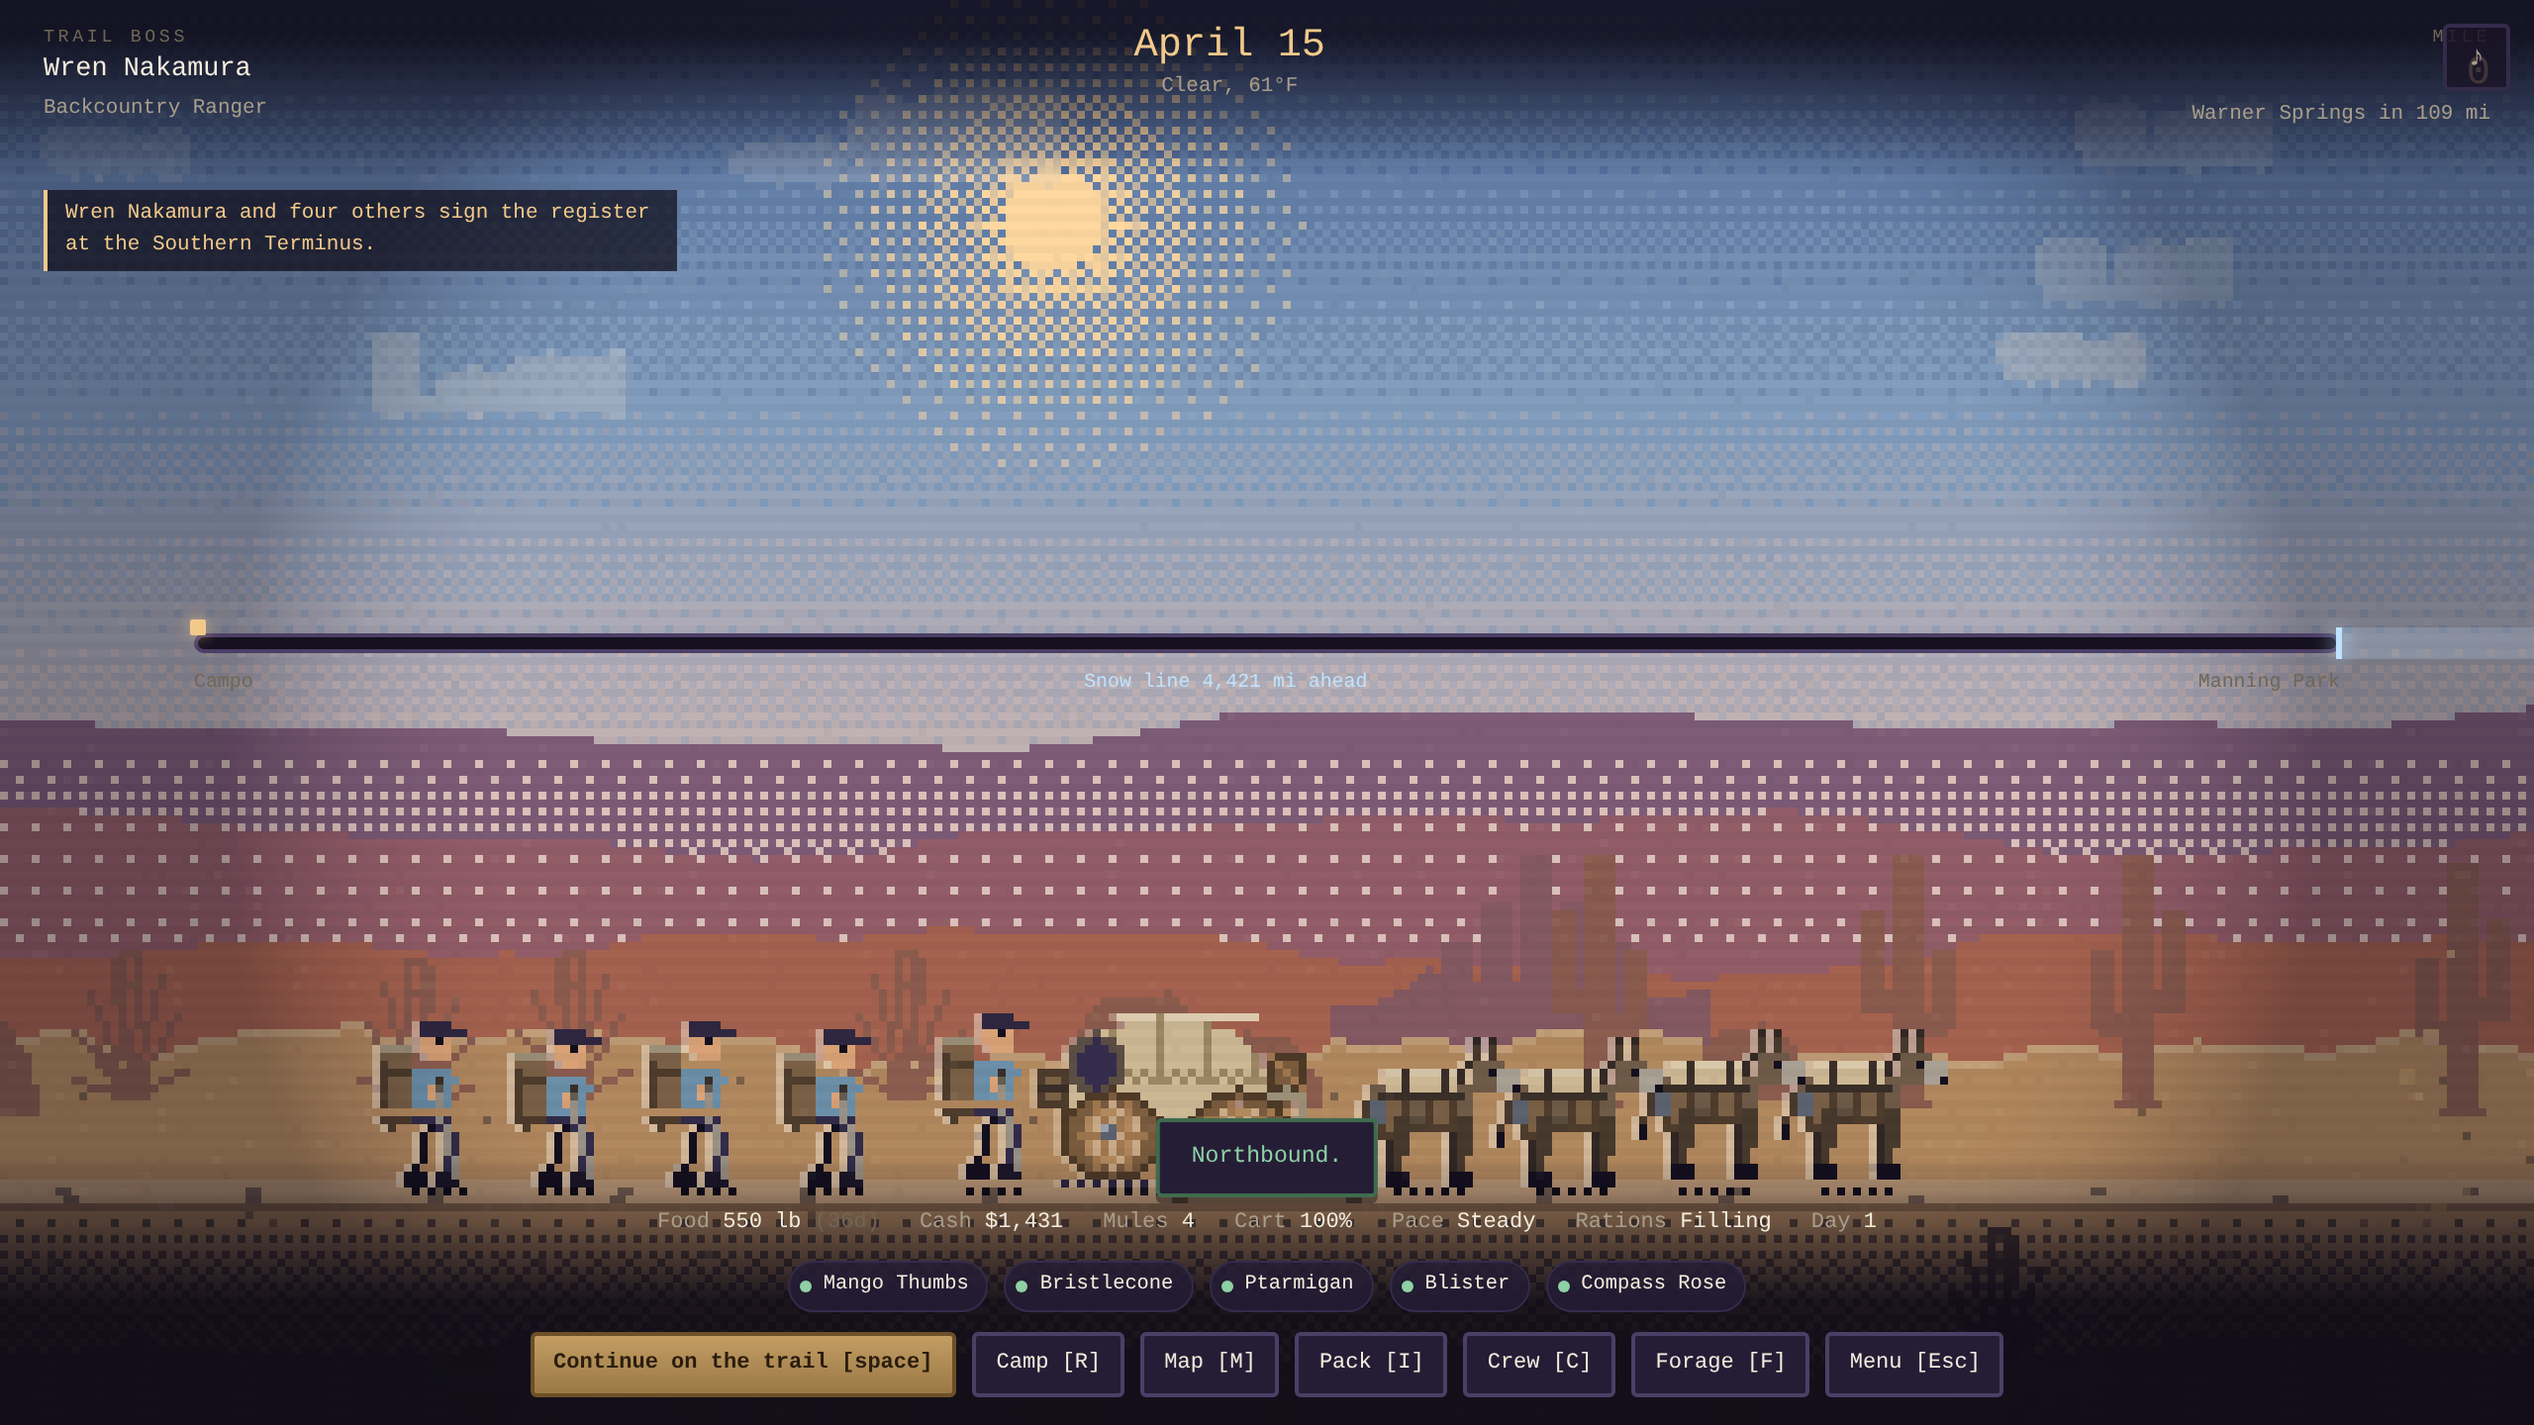
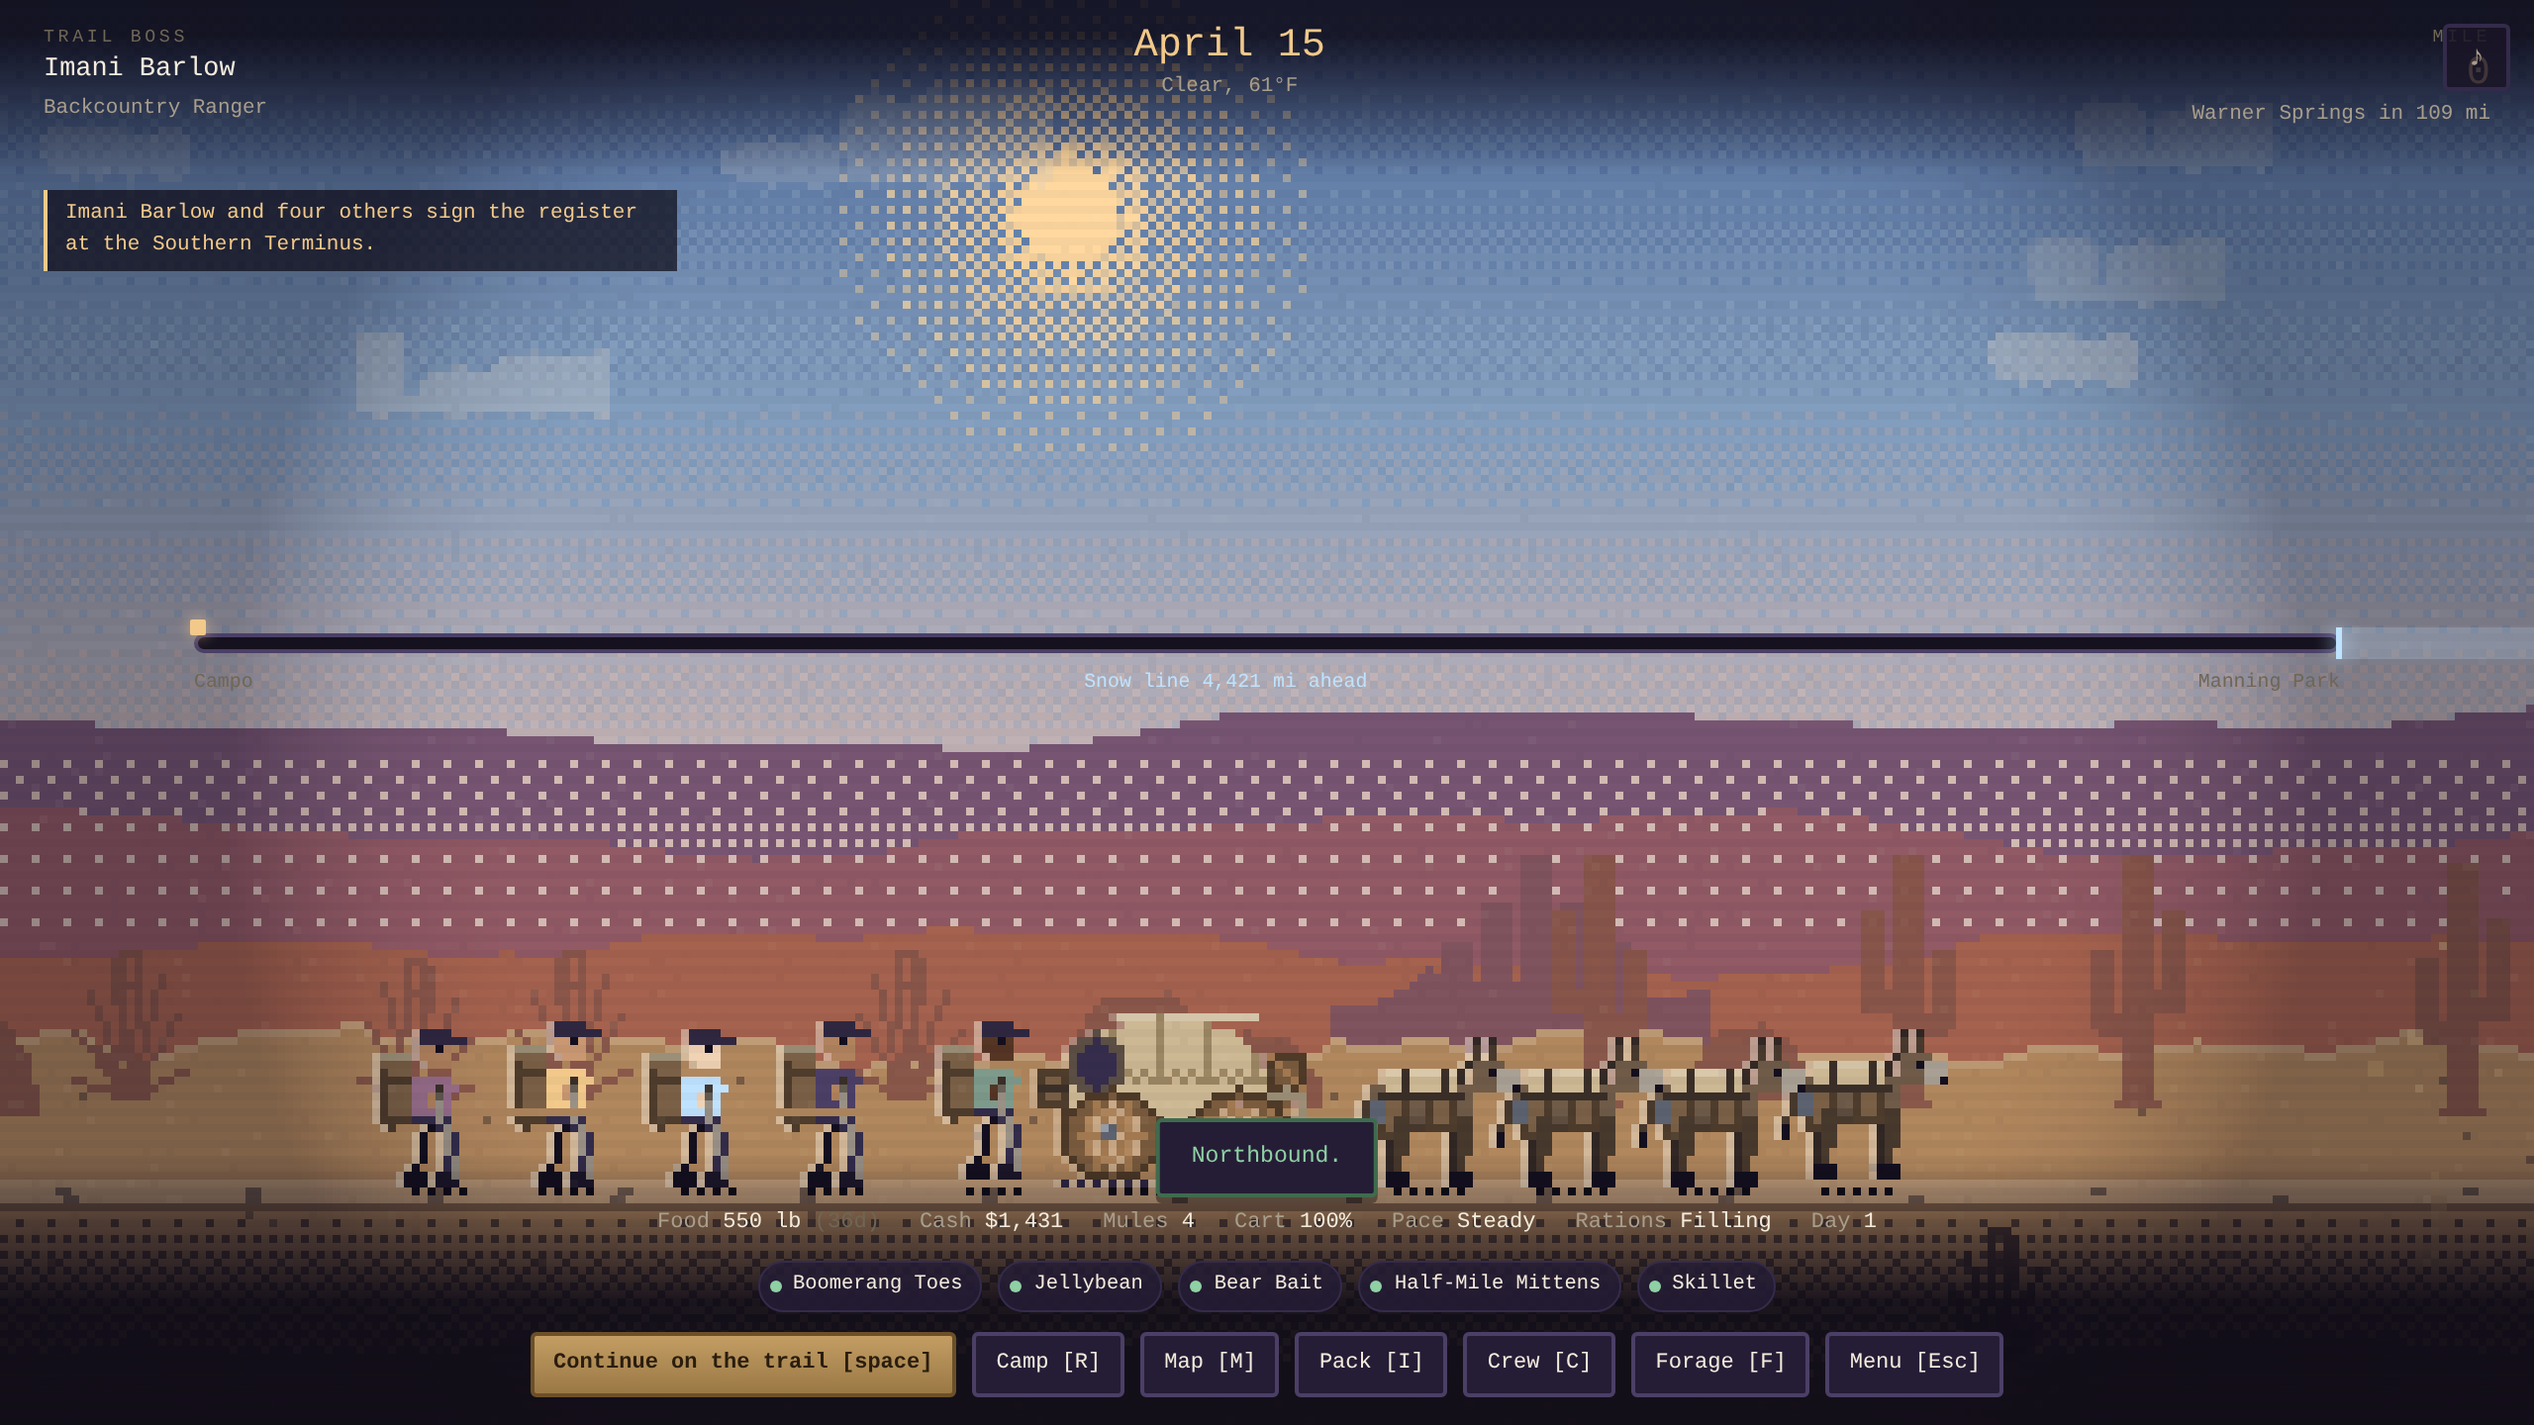
Northbound: fix el() id parsing, party recolour, and minigame escapes
The headless run kept wedging on the event card. Root cause was in the DOM
helper: el() only read '#id' off the first segment, so 'div.stack#event-choices'
produced a class literally named 'stack#event-choices' and no id at all. Every
'#event-choices' lookup then silently found nothing, so the choice list was
never cleared and getElementById never matched. Parsed properly now, with
test/dom.test.js covering it.

Also:
- render/atlas: recolorFrame looked up the plain frame rather than its
  key_-prefixed twin, so every per-member recolour was a silent no-op and the
  whole crew wore the same shirt
- render/scene: the mountain snow line sat near the ridge base, capping almost
  the whole silhouette white and flattening the range into one band; moved it
  onto the peaks, and eased the distance haze
- ui/icons: portraits passed a per-slot colour map to the 'tint' option, which
  takes a single hex, so every portrait rendered as a black silhouette
- ui: Esc now backs out of the ford and forage screens like any other panel
- ui: minigames run under a watchdog, so one that never resolves cannot wedge
  the game
- playtest: waits on game state instead of the clock, scopes selectors to the
  topmost screen, handles every screen's exit, and reports where it is

Claude-Session: https://claude.ai/code/session_01KPwXWQFTmAmVB3UthkBkbv

diff --git a/northbound/test/dom.test.js b/northbound/test/dom.test.js
@@ -1,0 +1,70 @@
+// NORTHBOUND — the DOM helper's selector parsing.
+//
+// `el()` is used by every screen, and a mis-parsed `#id` fails silently: the element
+// still renders, it just has a class literally named "menu#thing" and no id, so
+// getElementById and any `#id` selector quietly find nothing. That cost a stuck
+// playtest once; these tests make sure it stays fixed.
+import test from 'node:test';
+import assert from 'node:assert/strict';
+
+// A stand-in for the tiny slice of the DOM that el() touches.
+class FakeEl {
+  constructor(tag) {
+    this.tagName = String(tag).toUpperCase();
+    this.id = '';
+    this.className = '';
+    this.children = [];
+    this.attrs = {};
+    this.listeners = {};
+  }
+  appendChild(c) { this.children.push(c); return c; }
+  addEventListener(k, fn) { (this.listeners[k] ||= []).push(fn); }
+  setAttribute(k, v) { this.attrs[k] = v; }
+}
+
+globalThis.document = {
+  createElement: (t) => new FakeEl(t),
+  createTextNode: (t) => ({ text: String(t) }),
+};
+globalThis.Node = FakeEl;
+
+const { el } = await import('../public/js/ui/dom.js');
+
+test('el(): tag, classes and id parse from any segment', () => {
+  const cases = [
+    ['div', 'DIV', '', ''],
+    ['span.muted', 'SPAN', '', 'muted'],
+    ['div.a.b.c', 'DIV', '', 'a b c'],
+    ['section#only', 'SECTION', 'only', ''],
+    ['div#box.card', 'DIV', 'box', 'card'],
+    ['div.menu-numbered#event-choices', 'DIV', 'event-choices', 'menu-numbered'],
+    ['button.btn.wide#go', 'BUTTON', 'go', 'btn wide'],
+  ];
+  for (const [spec, tag, id, cls] of cases) {
+    const n = el(spec);
+    assert.equal(n.tagName, tag, `${spec} tag`);
+    assert.equal(n.id, id, `${spec} id`);
+    assert.equal(n.className, cls, `${spec} class`);
+  }
+});
+
+test('el(): a class is never left holding a # fragment', () => {
+  for (const spec of ['div.menu#x', 'p.a.b#y', 'div#z.a.b']) {
+    const n = el(spec);
+    assert.ok(!n.className.includes('#'), `${spec} leaked a # into className: "${n.className}"`);
+    assert.ok(n.id && !n.id.includes('.'), `${spec} produced a bad id: "${n.id}"`);
+  }
+});
+
+test('el(): props, children and text all land', () => {
+  const child = el('span');
+  const n = el('div.card', { title: 'hi' }, 'text', child);
+  assert.equal(n.attrs.title ?? n.title, 'hi');
+  assert.equal(n.children.length, 2);
+  assert.equal(n.children[1], child);
+});
+
+test('el(): the props argument is optional', () => {
+  const n = el('div', 'just text');
+  assert.equal(n.children.length, 1);
+});

diff --git a/northbound/public/js/ui/screens/travel.js b/northbound/public/js/ui/screens/travel.js
@@ -330,6 +330,25 @@ function unitOf(id) {
   return u === 'lb' ? 'lb' : u === 'head' ? 'head' : u === 'set' ? 'sets' : 'units';
 }
 
+/**
+ * Run a minigame with a hard wall-clock ceiling.
+ *
+ * The minigames are self-contained and own their own lifecycle, but a modal that never
+ * resolves would wedge the whole game with no way back. This guarantees the trail
+ * always continues, with an average result if the minigame did not report one.
+ */
+function withWatchdog(promise, ms, fallback) {
+  let timer = 0;
+  const guard = new Promise((resolve) => {
+    timer = setTimeout(() => {
+      console.warn('[northbound] minigame exceeded its time budget; resolving it');
+      resolve(fallback);
+    }, ms);
+  });
+  return Promise.race([Promise.resolve(promise).catch(() => fallback), guard])
+    .then((v) => { clearTimeout(timer); return v || fallback; });
+}
+
 // ----------------------------------------------------------------- ford ----
 
 export function ford(ctx, params = {}) {
@@ -359,7 +378,11 @@ export function ford(ctx, params = {}) {
     let outcome = { success: true, severity: 1, log: [] };
     try {
       const { runFord } = await import('../../minigames/ford.js');
-      outcome = await runFord(canvas, { ford: f, method, g, rng: g.rng, audio: Audio });
+      outcome = await withWatchdog(
+        runFord(canvas, { ford: f, method, g, rng: g.rng, audio: Audio }),
+        75000,
+        { success: true, severity: 1, log: [] },
+      );
     } catch (err) {
       console.warn('[northbound] ford minigame unavailable, resolving directly');
     } finally {
@@ -422,7 +445,11 @@ export function forage(ctx, params = {}) {
     try {
       const { runForage } = await import('../../minigames/forage.js');
       // No occupation bonus here — applyForageResult() applies the forage perk itself.
-      out = await runForage(canvas, { quality, biome: params.biome || 'forest', rng: g.rng, audio: Audio, bonus: 1 });
+      out = await withWatchdog(
+        runForage(canvas, { quality, biome: params.biome || 'forest', rng: g.rng, audio: Audio, bonus: 1 }),
+        90000,
+        { lbs: 18, log: [] },
+      );
     } catch (err) {
       console.warn('[northbound] forage minigame unavailable, resolving directly');
     } finally {

diff --git a/northbound/public/js/render/atlas.js b/northbound/public/js/render/atlas.js
@@ -30,6 +30,7 @@ let images = Object.create(null);      // id -> ImageBitmap | HTMLImageElement |
 let frames = Object.create(null);      // name -> {img, x, y, w, h, id}
 let anims = Object.create(null);       // name -> {frames:[names], fps, loop}
 let tintKeys = null;                   // {slot: [r,g,b]} or null
+let tintKeyPrefix = '';                // frames carrying the key colours are `<prefix><name>`
 let loaded = false;
 let loadPromise = null;
 
@@ -145,6 +146,7 @@ export async function loadAtlas(url = '/assets/atlas.json') {
     deriveImplicitAnims();
 
     tintKeys = parseTintKeys(json.tintKeys);
+    tintKeyPrefix = (json.tintKeys && typeof json.tintKeys.keyPrefix === 'string') ? json.tintKeys.keyPrefix : '';
 
     tintCache.clear(); recolorCache.clear(); shadowCache.clear(); imageTintCache.clear();
     loaded = Object.keys(frames).length > 0;
@@ -328,9 +330,13 @@ function unit(rgb, out) {
  * With no tintKeys in the atlas this is a no-op and returns the source frame.
  */
 export function recolorFrame(name, colors) {
-  const src = frames[name];
+  const plain = frames[name];
+  // Prefer the key-coloured twin (`key_<name>`): that is the copy with the shirt and
+  // skin painted in the reserved key colours that this function replaces. Falling back
+  // to the plain frame would make every recolour a silent no-op.
+  const src = (tintKeyPrefix && frames[tintKeyPrefix + name]) || plain;
   if (!src) return PLACEHOLDER;
-  if (!tintKeys || !colors) return src;
+  if (!tintKeys || !colors) return plain || src;
 
   let key = name;
   for (const slot in tintKeys) key += '|' + (colors[slot] || '-');

diff --git a/northbound/public/js/ui/dom.js b/northbound/public/js/ui/dom.js
@@ -2,11 +2,25 @@
 // Small, dependency-free builders so screen modules read like markup instead of
 // twenty lines of createElement per panel.
 
-/** el('div.card.selected', { onclick }, 'text', childNode, ...) */
+/**
+ * el('div.card.selected', { onclick }, 'text', childNode, ...)
+ *
+ * The `#id` may appear on any segment (`div#box.card` or `div.card#box`) — reading it
+ * only off the tag silently turns `div.card#box` into a class literally named
+ * "card#box" with no id, which fails in a way nothing warns you about.
+ */
 export function el(spec, props, ...children) {
-  const [tagPart, ...classes] = String(spec).split('.');
-  const [tag, id] = tagPart.split('#');
-  const node = document.createElement(tag || 'div');
+  let tag = 'div';
+  let id = '';
+  const classes = [];
+  for (const [i, seg] of String(spec).split('.').entries()) {
+    const hash = seg.indexOf('#');
+    const name = hash >= 0 ? seg.slice(0, hash) : seg;
+    if (hash >= 0) id = seg.slice(hash + 1);
+    if (i === 0) { if (name) tag = name; }
+    else if (name) classes.push(name);
+  }
+  const node = document.createElement(tag);
   if (id) node.id = id;
   if (classes.length) node.className = classes.join(' ');
 

diff --git a/northbound/public/js/render/scene.js b/northbound/public/js/render/scene.js
@@ -429,12 +429,15 @@ export function createScene(canvas) {
     st.wind = state.wind !== undefined ? state.wind
       : (grade ? grade[3] * (0.5 + st.sev * 0.5) : Math.sin(time * 0.21) * 0.12);
     st.haze = mix(st.hor, '#ffffff', 0.10 * (1 - st.night));
-    st.hazeAmt = 0.55 + (grade ? grade[2] * st.sev : 0);
+    // Enough haze to sell distance, not so much that the ranges dissolve into the sky.
+    st.hazeAmt = 0.36 + (grade ? grade[2] * st.sev : 0);
 
     // snow line on the peaks
     const elev = state.elevation || 3000;
     const snowy = curBiome === 'alpine' || curBiome === 'sierra' || curBiome === 'volcanic' || elev > 7200;
-    st.snowY = snowy ? lerp(58, RIDGE_BASE[1], clamp((elev - 4200) / 7000, 0, 1)) : -99;
+    // Snow belongs on the peaks. Sitting it near the ridge *base* caps almost the whole
+    // silhouette white, which reads as one flat band instead of a range.
+    st.snowY = snowy ? lerp(52, RIDGE_BASE[0] - 9, clamp((elev - 4200) / 7000, 0, 1)) : -99;
     if (st.weather === 'snow') st.snowY = Math.max(st.snowY, RIDGE_BASE[1] - 4);
   }
 

diff --git a/northbound/public/css/style.css b/northbound/public/css/style.css
@@ -118,13 +118,13 @@ body {
 .subtitle, .tagline, .footnote {
   text-shadow: 0 1px 0 #0e0b17, 0 0 10px rgba(14, 11, 23, .95), 0 0 22px rgba(14, 11, 23, .8);
 }
-#screen-title .title-block, #screen-title .footnote {
-  position: relative;
-}
-#screen-title .title-block::before {
-  content: ''; position: absolute; inset: -12% -8%;
-  background: radial-gradient(ellipse at center, rgba(14, 11, 23, .82) 35%, rgba(14, 11, 23, 0) 72%);
-  z-index: -1;
+/* One full-screen scrim rather than a halo behind the text: a localised blob reads as
+   a smudge on the sky, a top-and-bottom gradient reads as evening. */
+#screen-title::before {
+  content: ''; position: absolute; inset: 0; z-index: -1; pointer-events: none;
+  background:
+    linear-gradient(180deg, rgba(14, 11, 23, .78) 0%, rgba(14, 11, 23, .34) 38%,
+                            rgba(14, 11, 23, .30) 62%, rgba(14, 11, 23, .80) 100%);
 }
 kbd {
   font: inherit; font-size: .9em; padding: 1px 5px;

diff --git a/northbound/public/js/ui/ui.js b/northbound/public/js/ui/ui.js
@@ -44,7 +44,13 @@ const SCREENS = {
 };
 
 // Screens that sit on top of the trail HUD rather than replacing it.
-const OVERLAY_SCREENS = new Set(['map', 'pack', 'party', 'event', 'camp', 'talk', 'trade', 'landmark', 'store', 'settings', 'help', 'scores']);
+const OVERLAY_SCREENS = new Set([
+  'map', 'pack', 'party', 'event', 'camp', 'talk', 'trade', 'landmark', 'store',
+  'settings', 'help', 'scores',
+  // The minigame screens are modal too: their intro/outcome panels sit over the HUD,
+  // and Esc has to be able to back out of them like any other panel.
+  'ford', 'forage',
+]);
 
 // Music selection per biome, for the travel screen.
 const BIOME_TRACK = {

diff --git a/northbound/public/js/ui/screens/icons.js b/northbound/public/js/ui/screens/icons.js
@@ -55,7 +55,9 @@ export function memberSprite(member, size = 48, frameName = 'hiker_idle_0') {
   try {
     ctx.save();
     ctx.scale(scale, scale);
-    draw(ctx, member.alive ? frameName : 'hiker_dead_0', 0, 0, { tint: member.portrait });
+    // `tint` is a single hex; a per-slot portrait map goes through `recolor`.
+    draw(ctx, member.alive ? frameName : 'hiker_dead_0', 0, 0,
+      member.alive ? { recolor: member.portrait } : undefined);
     ctx.restore();
   } catch {}
   return canvas;
